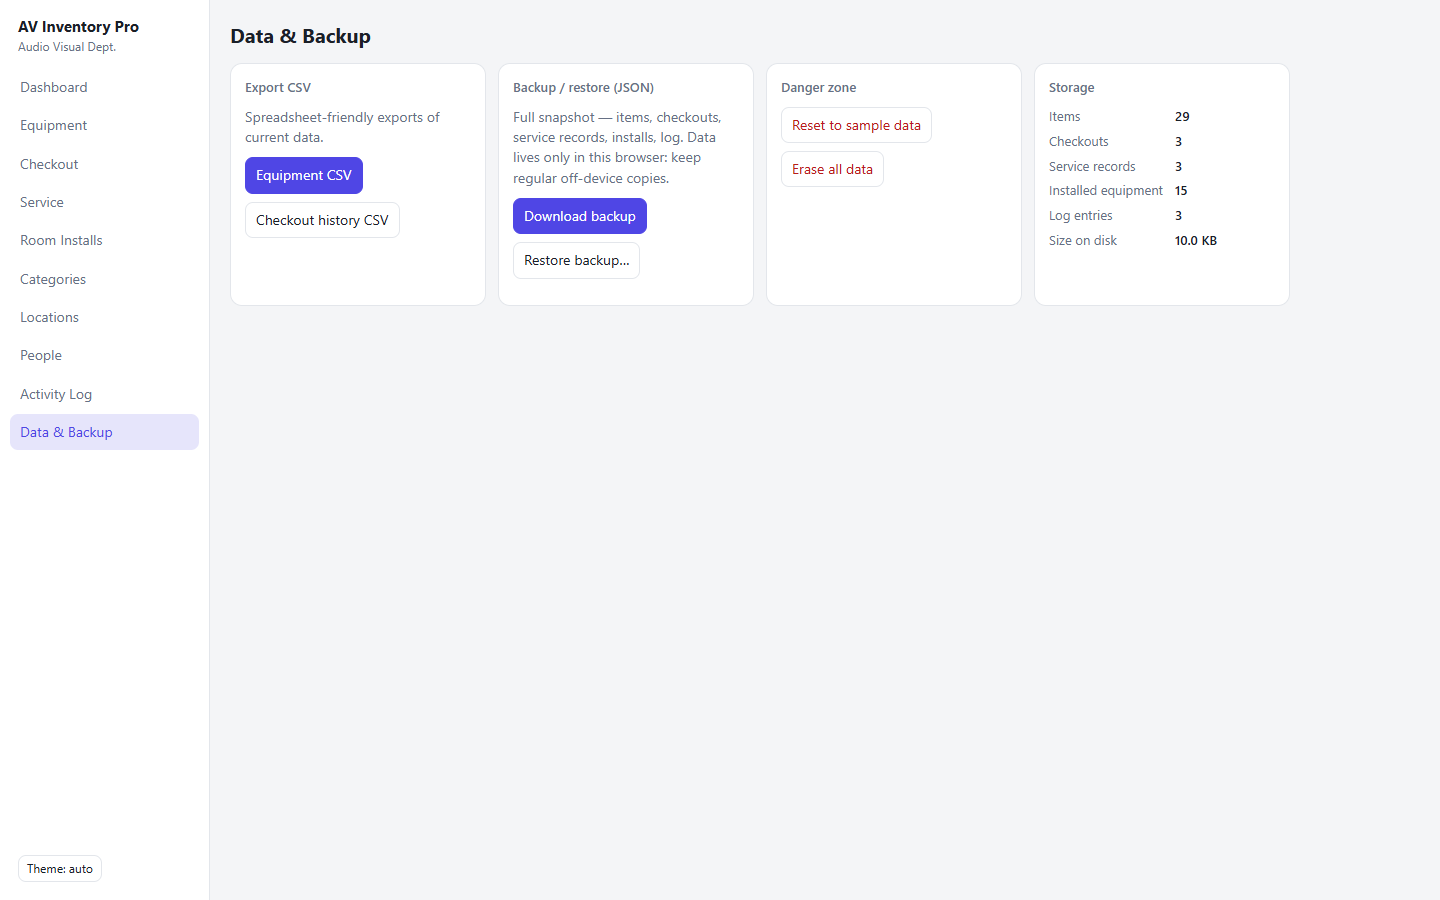
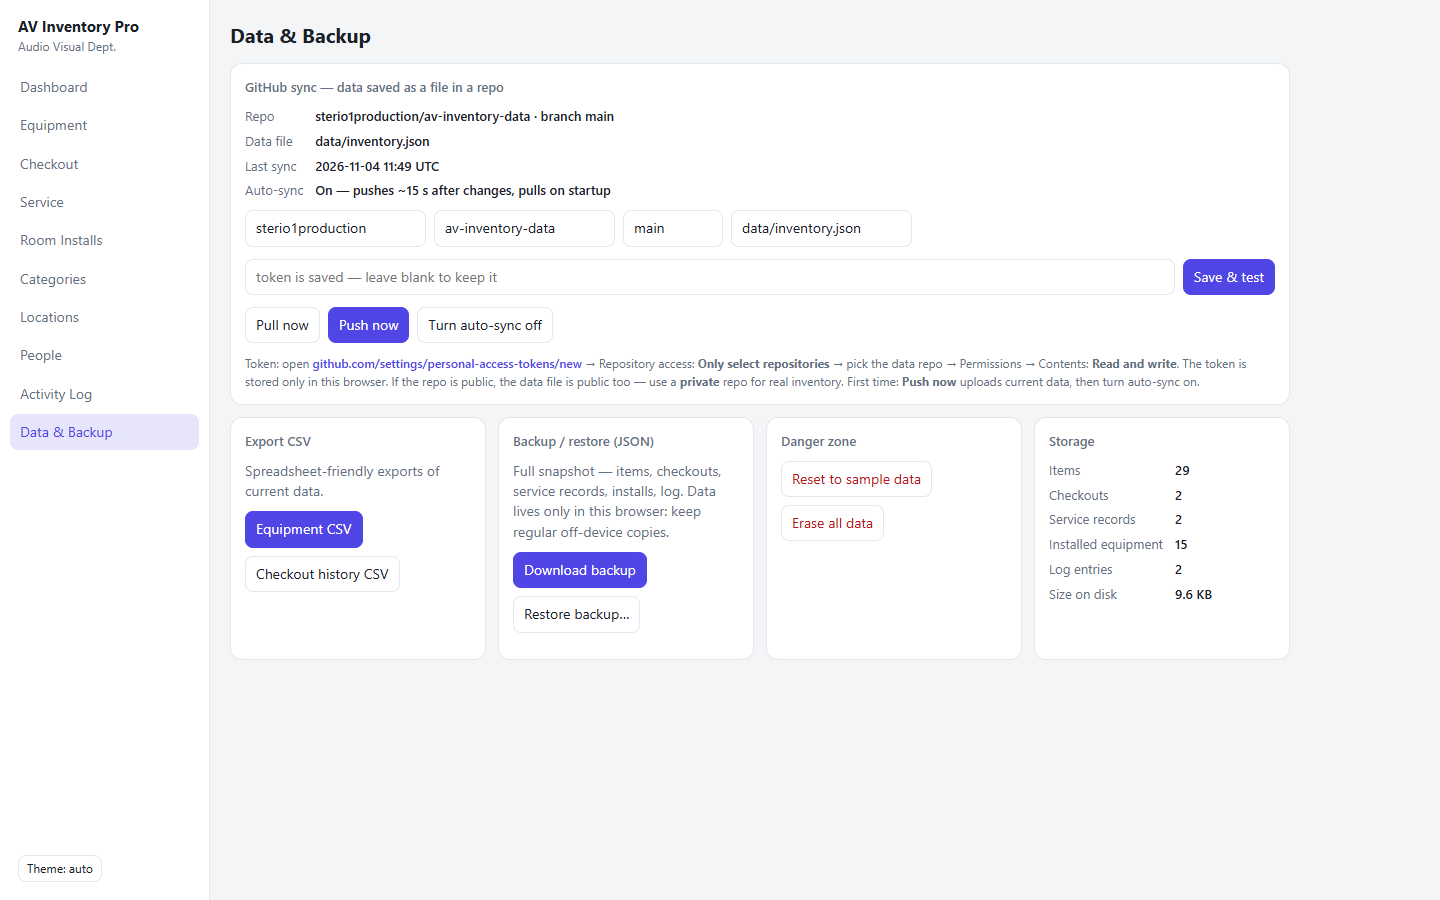
GitHub sync: data saved as data/inventory.json in a repo (auto-push/pull, token setup UI); README + data screenshot

diff --git a/app.js b/app.js
@@ -41,7 +41,7 @@ function migrate(s) {
   return s;
 }
 
-function save() { try { localStorage.setItem(KEY, JSON.stringify(S)); } catch (e) { } }
+function save() { try { localStorage.setItem(KEY, JSON.stringify(S)); } catch (e) { } ghAuto(); }
 function log(m) { S.log.unshift({ t: Date.now(), m }); S.log = S.log.slice(0, 200); }
 const nm = (a, id) => (S[a].find(x => x.id == id) || { n: '—' }).n;
 
@@ -422,7 +422,15 @@ function logv() {
 function datav() {
   const bytes = (localStorage.getItem(KEY) || '').length;
   const kb = bytes > 1024 ? (bytes / 1024).toFixed(1) + ' KB' : bytes + ' B';
-  return `<h2>Data & Backup</h2><div class="grid">
+  const c = ghCfg();
+  return `<h2>Data & Backup</h2>
+  <div class="card" style="margin-bottom:12px"><h3>GitHub sync — data saved as a file in a repo</h3>
+  ${ghReady() ? `<div class="kv" style="margin-bottom:10px"><i>Repo</i><b>${esc(c.owner)}/${esc(c.repo)} · branch ${esc(c.branch || 'main')}</b><i>Data file</i><b>${esc(c.path || 'data/inventory.json')}</b><i>Last sync</i><b>${c.lastSync ? esc(c.lastSync.slice(0, 16).replace('T', ' ')) + ' UTC' : 'never'}</b><i>Auto-sync</i><b>${c.auto ? 'On — pushes ~15 s after changes, pulls on startup' : 'Off'}</b></div>` : '<p class="mu">Not configured yet. Your inventory data can be committed to a GitHub repo (ideally a <b>private</b> one) through the GitHub API — so every device shares the same data.</p>'}
+  <div class="row"><input id="ghOwner" placeholder="owner, e.g. sterio1production" style="max-width:230px" value="${esc(c.owner || '')}"><input id="ghRepo" placeholder="repo, e.g. av-inventory-data" style="max-width:230px" value="${esc(c.repo || '')}"><input id="ghBranch" placeholder="branch" style="max-width:100px" value="${esc(c.branch || 'main')}"><input id="ghPath" placeholder="file path" style="max-width:190px" value="${esc(c.path || 'data/inventory.json')}"></div>
+  <div class="row"><input id="ghToken" type="password" placeholder="${c.token ? 'token is saved — leave blank to keep it' : 'personal access token (fine-grained, Contents: Read & write)'}" style="flex:1;min-width:240px"><button class="p" onclick="ghSaveCfg()">Save & test</button></div>
+  <div class="row"><button onclick="ghPull(false)">Pull now</button><button class="p" onclick="ghPush(false)">Push now</button><button onclick="ghToggleAuto()">${c.auto ? 'Turn auto-sync off' : 'Turn auto-sync on'}</button></div>
+  <p class="mu" style="margin:8px 0 0;font-size:12px">Token: open <a class="lnk" href="https://github.com/settings/personal-access-tokens/new" target="_blank" rel="noopener">github.com/settings/personal-access-tokens/new</a> → Repository access: <b>Only select repositories</b> → pick the data repo → Permissions → Contents: <b>Read and write</b>. The token is stored only in this browser. If the repo is public, the data file is public too — use a <b>private</b> repo for real inventory. First time: <b>Push now</b> uploads current data, then turn auto-sync on.</p></div>
+  <div class="grid">
   <div class="card"><h3>Export CSV</h3><p class="mu">Spreadsheet-friendly exports of current data.</p><div class="row"><button class="p" onclick="csvItems()">Equipment CSV</button><button onclick="csvCO()">Checkout history CSV</button></div></div>
   <div class="card"><h3>Backup / restore (JSON)</h3><p class="mu">Full snapshot — items, checkouts, service records, installs, log. Data lives only in this browser: keep regular off-device copies.</p><div class="row"><button class="p" onclick="jsonExport()">Download backup</button><label class="filebtn">Restore backup…<input type="file" accept=".json,application/json" onchange="jsonImport(this)"></label></div></div>
   <div class="card"><h3>Danger zone</h3><div class="row"><button class="d" onclick="resetSample()">Reset to sample data</button><button class="d" onclick="clearAll()">Erase all data</button></div></div>
@@ -473,6 +481,100 @@ function clearAll() {
   }
 }
 
+/* ---------- GitHub sync (data as a JSON file in a repo, via Contents API) ---------- */
+const GKEY = KEY + '-gh';
+const ghCfg = () => { try { return JSON.parse(localStorage.getItem(GKEY)) || {}; } catch (e) { return {}; } };
+const ghSet = c => localStorage.setItem(GKEY, JSON.stringify(c));
+const ghReady = () => { const c = ghCfg(); return !!(c.token && c.owner && c.repo); };
+let ghPushTimer = null, ghBusy = false;
+function dataHash(s) { const str = JSON.stringify(s); let h = 5381; for (let i = 0; i < str.length; i++) h = ((h << 5) + h + str.charCodeAt(i)) | 0; return String(h); }
+const ghClean = () => localStorage.getItem(KEY + '-hash') == null || localStorage.getItem(KEY + '-hash') === dataHash(S);
+
+function utf8ToB64(str) { const b = new TextEncoder().encode(str); let s = ''; for (let i = 0; i < b.length; i++) s += String.fromCharCode(b[i]); return btoa(s); }
+function b64ToUtf8(b64) { const s = atob(String(b64).replace(/\s/g, '')); const b = new Uint8Array(s.length); for (let i = 0; i < s.length; i++) b[i] = s.charCodeAt(i); return new TextDecoder().decode(b); }
+function ghApi(method, p, body) {
+  const c = ghCfg();
+  return fetch('https://api.github.com' + p, {
+    method,
+    headers: { Accept: 'application/vnd.github+json', Authorization: 'Bearer ' + c.token, 'Content-Type': 'application/json' },
+    body: body ? JSON.stringify(body) : undefined
+  }).then(async r => {
+    if (r.status === 404) return null;
+    const j = await r.json().catch(() => null);
+    if (!r.ok) throw new Error(j && j.message ? r.status + ': ' + j.message : 'HTTP ' + r.status);
+    return j;
+  });
+}
+const ghRef = c => `/repos/${encodeURIComponent(c.owner)}/${encodeURIComponent(c.repo)}/contents/${encodeURIComponent(c.path || 'data/inventory.json').replace(/%2F/g, '/')}?ref=${encodeURIComponent(c.branch || 'main')}`;
+
+async function ghPull(silent) {
+  if (!ghReady()) { if (!silent) alert('Configure owner, repo and token first.'); return false; }
+  ghBusy = true;
+  try {
+    const c = ghCfg();
+    const j = await ghApi('GET', ghRef(c));
+    if (!j || !j.content) { if (!silent) alert('No data file at ' + (c.path || 'data/inventory.json') + ' yet — use Push now to create it.'); return false; }
+    const w = JSON.parse(b64ToUtf8(j.content));
+    const d = w.data || w;
+    if (!Array.isArray(d.items)) throw new Error('file does not contain inventory data');
+    const same = JSON.stringify(d) === JSON.stringify(S);
+    if (!same && !silent && !ghClean() && !confirm('Remote has changes, but this browser has unsynced edits.\nOK = load remote (local edits lost), Cancel = keep local (next push overwrites remote).')) { return false; }
+    if (!same && (silent || ghClean())) { S = migrate(d); log('Pulled data from GitHub (' + c.owner + '/' + c.repo + ')'); }
+    ghSet({ ...c, lastSync: new Date().toISOString(), sha: j.sha });
+    localStorage.setItem(KEY + '-hash', dataHash(S));
+    save(); render();
+    return true;
+  } catch (e) { if (!silent) alert('Pull failed: ' + e.message); return false; }
+  finally { ghBusy = false; }
+}
+
+async function ghPush(silent) {
+  if (!ghReady()) { if (!silent) alert('Configure owner, repo and token first.'); return false; }
+  ghBusy = true;
+  try {
+    const c = ghCfg();
+    let sha = c.sha || null;
+    if (!sha) { const j = await ghApi('GET', ghRef(c)); sha = j ? j.sha : undefined; }
+    const body = { message: 'AV inventory data sync — ' + new Date().toISOString().replace('T', ' ').slice(0, 16), content: utf8ToB64(JSON.stringify({ app: 'av-inventory-pro', ver: 2, exported: new Date().toISOString(), data: S }, null, 1)), branch: c.branch || 'main' };
+    if (sha) body.sha = sha;
+    const j = await ghApi('PUT', ghRef(c).split('?')[0], body);
+    ghSet({ ...c, lastSync: new Date().toISOString(), sha: (j.content && j.content.sha) || (j.commit && j.commit.sha) });
+    localStorage.setItem(KEY + '-hash', dataHash(S));
+    log('Pushed data to GitHub (' + c.owner + '/' + c.repo + ')');
+    render();
+    return true;
+  } catch (e) {
+    if (!silent) alert(String(e.message).startsWith('409') ? 'Remote changed since last sync — Pull first, then Push.' : 'Push failed: ' + e.message);
+    return false;
+  }
+  finally { ghBusy = false; }
+}
+
+function ghAuto() {
+  const c = ghCfg();
+  if (!c.auto || !ghReady() || ghBusy) return;
+  clearTimeout(ghPushTimer);
+  ghPushTimer = setTimeout(() => { if (!ghBusy && ghReady() && ghCfg().auto && !ghClean()) ghPush(true); }, 15000);
+}
+
+async function ghSaveCfg() {
+  const old = ghCfg();
+  const c = {
+    owner: $('#ghOwner').value.trim(), repo: $('#ghRepo').value.trim(),
+    branch: $('#ghBranch').value.trim() || 'main', path: $('#ghPath').value.trim() || 'data/inventory.json',
+    token: $('#ghToken').value.trim() || old.token || '', auto: !!old.auto
+  };
+  if (!c.owner || !c.repo || !c.token) return alert('Owner, repo and token are required.');
+  ghSet(c);
+  try {
+    const r = await fetch(`https://api.github.com/repos/${encodeURIComponent(c.owner)}/${encodeURIComponent(c.repo)}`, { headers: { Authorization: 'Bearer ' + c.token, Accept: 'application/vnd.github+json' } });
+    if (!r.ok) throw new Error(r.status === 401 ? 'token rejected (401)' : r.status === 404 ? 'repo not found, or the token has no access to it (404)' : 'HTTP ' + r.status);
+    log('GitHub sync configured: ' + c.owner + '/' + c.repo);
+    render();
+  } catch (e) { alert('Settings saved, but the connection test failed: ' + e.message); }
+}
+function ghToggleAuto() { const c = ghCfg(); c.auto = !c.auto; ghSet(c); if (c.auto) ghAuto(); log('GitHub auto-sync ' + (c.auto ? 'enabled' : 'disabled')); render(); }
+
 /* ---------- Code 39 labels (verified against bwip-js reference encoder) ---------- */
 const C39 = { '0': 'nnnwwnwnn', '1': 'wnnwnnnnw', '2': 'nnwwnnnnw', '3': 'wnwwnnnnn', '4': 'nnnwwnnnw', '5': 'wnnwwnnnn', '6': 'nnwwwnnnn', '7': 'nnnwnnwnw', '8': 'wnnwnnwnn', '9': 'nnwwnnwnn', 'A': 'wnnnnwnnw', 'B': 'nnwnnwnnw', 'C': 'wnwnnwnnn', 'D': 'nnnnwwnnw', 'E': 'wnnnwwnnn', 'F': 'nnwnwwnnn', 'G': 'nnnnnwwnw', 'H': 'wnnnnwwnn', 'I': 'nnwnnwwnn', 'J': 'nnnnwwwnn', 'K': 'wnnnnnnww', 'L': 'nnwnnnnww', 'M': 'wnwnnnnwn', 'N': 'nnnnwnnww', 'O': 'wnnnwnnwn', 'P': 'nnwnwnnwn', 'Q': 'nnnnnnwww', 'R': 'wnnnnnwwn', 'S': 'nnwnnnwwn', 'T': 'nnnnwnwwn', 'U': 'wwnnnnnnw', 'V': 'nwwnnnnnw', 'W': 'wwwnnnnnn', 'X': 'nwnnwnnnw', 'Y': 'wwnnwnnnn', 'Z': 'nwwnwnnnn', '-': 'nwnnnnwnw', '.': 'wwnnnnwnn', ' ': 'nwwnnnwnn', '$': 'nwnwnwnnn', '/': 'nwnwnnnwn', '+': 'nwnnnwnwn', '%': 'nnnwnwnwn', '*': 'nwnnwnwnn' };
 function code39Svg(text, h = 44, narrow = 2, wide = 5) {
@@ -510,3 +612,4 @@ if (!S || !S.items) S = seed();
 S = migrate(S);
 applyTheme();
 render();
+if (ghReady() && ghCfg().auto) ghPull(true);

diff --git a/README.md b/README.md
@@ -11,9 +11,9 @@ dependencies** and no build step.
 | --- | --- |
 | ![Dashboard](docs/screenshots/dashboard.png) | ![Equipment](docs/screenshots/equipment.png) |
 
-| Item detail (barcode + history) | Dark mode |
+| Item detail (barcode + history) | Data view with GitHub sync |
 | --- | --- |
-| ![Item detail](docs/screenshots/item-detail.png) | ![Dark mode](docs/screenshots/dashboard-dark.png) |
+| ![Item detail](docs/screenshots/item-detail.png) | ![Data & Backup](docs/screenshots/data.png) |
 
 ## Quick start
 
@@ -46,7 +46,7 @@ dependencies** and no build step.
   output was verified symbol-for-symbol against the [bwip-js](https://github.com/metafloor/bwip-js)
   reference implementation.
 - **Data & backup** — CSV export (equipment, checkout history), full JSON backup and
-  restore with validation, storage usage stats, reset/erase.
+  restore with validation, **GitHub sync** (below), storage usage stats, reset/erase.
 - **Activity log** — last 200 mutations, human-readable.
 - **Dark mode** — follows the OS, with an Auto → Light → Dark toggle; responsive layout
   down to phone widths.
@@ -83,6 +83,38 @@ The original single-file prototype is included at
 AV Inventory Pro v2 detects v1-shaped data (no SKUs, no service records, unit-only
 checkouts), assigns SKUs, back-fills the new fields and defaults loan quantities to 1 —
 availability and history are preserved.
+
+## GitHub sync — data saved in a repo
+
+Data can live in a GitHub repo as `data/inventory.json`, written through the GitHub
+Contents API — so every laptop or phone shares one dataset while the app itself stays
+static and serverless.
+
+**One-time setup**
+
+1. Create a **private** repo for data (e.g. `av-inventory-data`). If the repo is public,
+   the data file is public too — don't put real inventory in a public repo.
+2. Create a fine-grained personal access token:
+   [github.com/settings/personal-access-tokens/new](https://github.com/settings/personal-access-tokens/new)
+   → Repository access: *Only select repositories* → pick the data repo →
+   Permissions → Contents: **Read and write**.
+3. In the app: **Data & Backup → GitHub sync**, fill owner / repo / branch / file path,
+   paste the token, **Save & test**. Then **Push now** once, and turn **auto-sync** on.
+
+**How it behaves**
+
+- *Auto-push* — ~15 s after your last change, the app commits the data file
+  (`AV inventory data sync — <date>`). Idle debounce keeps commit noise low.
+- *Auto-pull* — on startup the app adopts the remote file (if this browser has no
+  unsynced edits); with unsynced local edits it asks before overwriting either side.
+- *Conflicts* — last writer wins; a stale push is rejected (409) and the app tells you
+  to pull first. For a small team this is usually enough; heavy concurrent editing is a
+  job for a real backend (see roadmap).
+- *Token security* — the token is stored only in that browser's `localStorage` and sent
+  only to `api.github.com` over HTTPS. Scope it to the single data repo with
+  Contents-only access. Never paste a token into issues/commits.
+- The file is the same shape as the JSON backup (`{app, ver, exported, data}`), so a
+  synced file can also be restored with **Restore backup**.
 
 ## Printing asset labels
 
